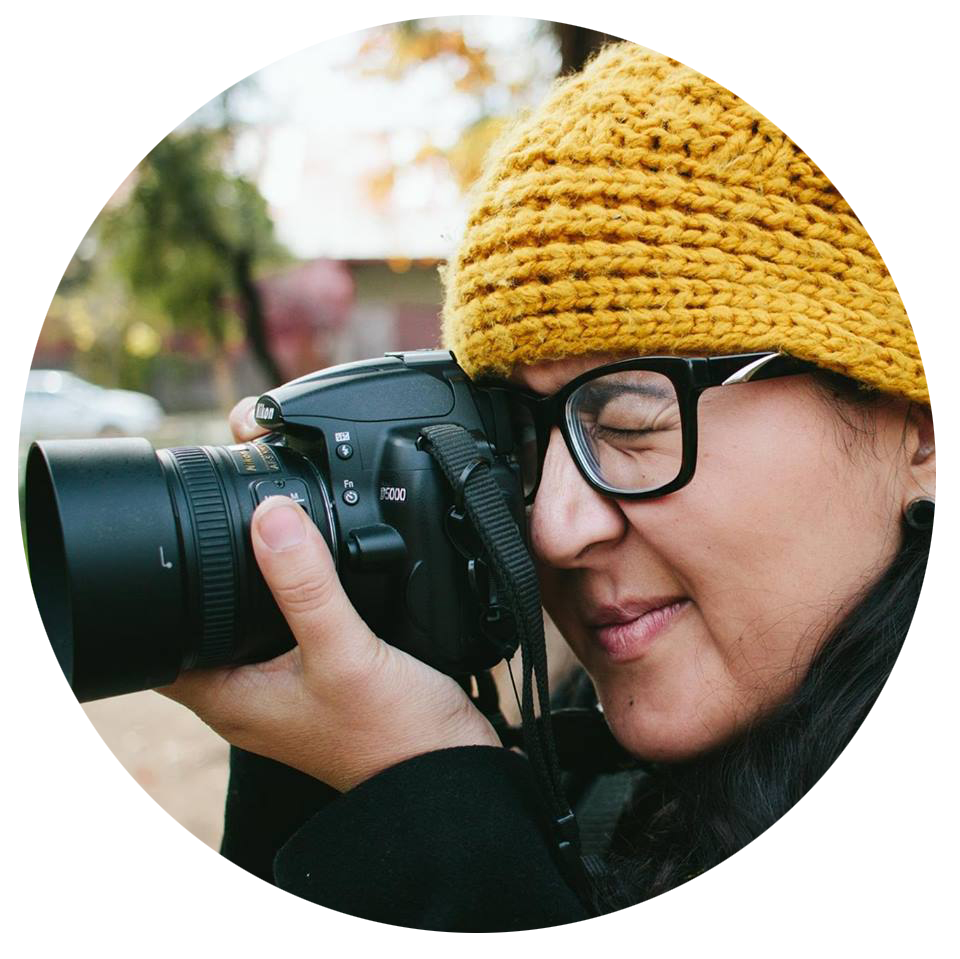
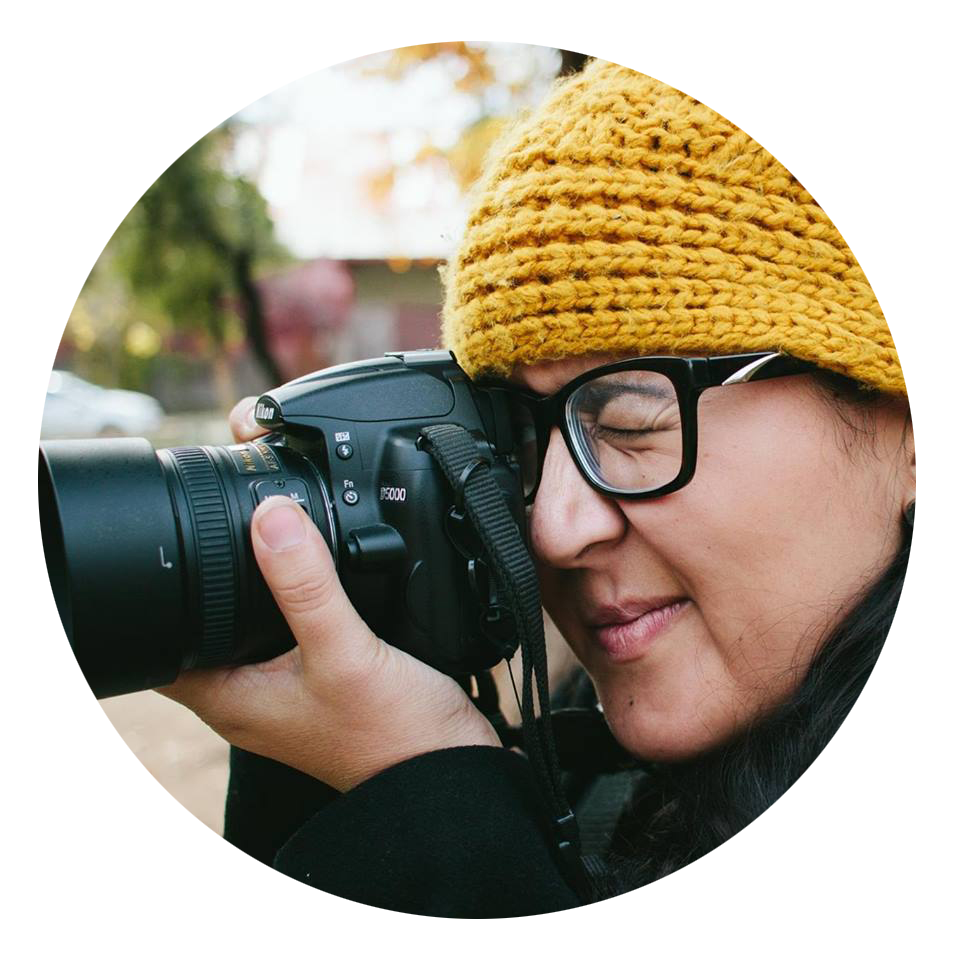
cambios en gh-pages

Changed region(s): [[0.1875, 0.0, 1.0, 0.9979], [0.0, 0.0605, 0.2812, 0.8467], [0.375, 0.0, 0.5, 0.0605]]

diff --git a/index.html b/index.html
@@ -15,7 +15,9 @@
 
 
     <center><img src="img/cabecera.jpg"></center>
-	<center><img src="img/blanca.jpg" width="300" height="300"></center>
+    <div class="circular">
+	<center><img src="img/blanca.png" onmouseover="this.src='img/squad.png';"  onmouseout="this.src='img/blanca.png';" width="300" height="300"></center>
+	</div>
 
 
 
@@ -45,33 +47,34 @@
 			<tr></tr>
 	</div>
 
-	<div>
+	<div class="circular">
 
 	<center><table>
 	    <td>
 	  <a href="http://1vaciolleno.blogspot.cl/">
-	    <img src="img/joseb&w.jpg" width="250" height="250">
+	    <img src="img/josebyw.jpg" onmouseover="this.src='img/jose2.jpg';" onmouseout="this.src='img/josebyw.jpg';" width="250" height="250">
 	</a>
 	<center><h3>J o s e f i n a L ó p e z</h3></center>
         </td>
 
 	    <td>
 	<a href="https://www.facebook.com/SUSAN.TG.FACE?fref=grp_mmbr_list">
-	    <img src="img/susa.jpg" width="250" height="250">
+	    <img src="img/susa.jpg" onmouseover="this.src='img/susan2.jpg';" onmouseout="this.src='img/susa.jpg';" width="250" height="250">
 	</a> 
 	<center><h3>S u s a n a T r a l m a</h3></center>
 	    </td>
 
         <td>
     <a href="https://www.facebook.com/photo.php?fbid=10209672961956119&set=a.1554216570631.2081037.1091676568&type=3&theater">
-	    <img src="img/paulina.jpg" width="250" height="250" > 
+	     <img src="img/paulina.jpg" onmouseover="this.src='img/paulina2.jpg';" onmouseout="this.src='img/paulina.jpg';" width="250" height="250">
+
 	</a>  
 	<center><h3>P a u l i n a V a l e n z u e l a</h3></center>
 	    </td>
 
 	    <td>
 	<a href="https://www.flickr.com/photos/nicolelirafotos">
-	    <img src="img/nicolelira.jpg" width="250" height="250"> 
+	    <img src="img/nicole.jpg" onmouseover="this.src='img/nico2.jpg';" onmouseout="this.src='img/nicole.jpg';" width="250" height="250"> 
 	</a>
 	<center><h3>N i c o l e L i r a</h3></center>
 	    </td>
@@ -81,28 +84,31 @@
 
 	    <td>
 	<a href="https://www.facebook.com/photo.php?fbid=10209882249074053&set=a.1586771270365.78690.1268286123&type=3&theater">
-	    <img src="img/daya.jpg" width="250" height="250"> 
+	    <img src="img/daya.jpg" onmouseover="this.src='img/daya2.jpg';" onmouseout="this.src='img/daya.jpg';" width="250" height="250">
+	</a>
 	</a>   
 	<center><h3>D a y a n a A l v a r a d o</h3></center>
 	    </td>
 
 	    <td>
 	<a href="https://twitter.com/paulincka">
-	    <img src="img/paula.jpg" <img width="250" height="250" >
+	    <img src="img/paula.jpg" onmouseover="this.src='img/paula2.jpg';" onmouseout="this.src='img/paula.jpg';" width="250" height="250">
 	</a>
-	<center><h3>P a u l a S e p u l v e d a</h3></center>
+	</a>
+	<center><h3>P a u l a  S e p ú l v e d a</h3></center>
 
 	</td>
 
 	    <td>
-	<a href="https://www.facebook.com/photo.php?fbid=1222155964481865&set=a.148063028557836.23684.100000624186007&type=3&theater">   <img src="img/evelin.jpg" width="250" height="250"> 
+	<a href="https://www.facebook.com/photo.php?fbid=1222155964481865&set=a.148063028557836.23684.100000624186007&type=3&theater">   <img src="img/evelin.jpg" onmouseover="this.src='img/evelin2.jpg';" onmouseout="this.src='img/evelin.jpg';" width="250" height="250">
+	</a>	
 	</a>	
 	<center><h3>E v e l i n R i q u e l m e</h3></center>   
        </td>
 
 	    <td>
 	<a href="https://www.facebook.com/urribarriboscan">
-        <img src="img/kelly.jpg" width="250" height="250">
+        <img src="img/kelly.jpg" onmouseover="this.src='img/kelly2.jpg';" onmouseout="this.src='img/kelly.jpg';"width="250" height="250">
     </a>
     <center><h3>K e l l y U r r i b a r r i</h3></center>
 	    </td>
@@ -117,9 +123,9 @@
 
 
 	<center> <h1>  &uArr; A cambiar el mundo &uArr; </h1> </center>
-
+	<div class="circular">
 	<center> <img src="img/freak.jpg" width="1019"></center>
-
+	</div>
 	<center><img src="img/cabecera.jpg"></center>
 	
 

diff --git a/css/stylesheet.css b/css/stylesheet.css
@@ -48,6 +48,10 @@ div 	{
 
 th {display: inline-block;}
 
+.circular img {
+	border-radius: 50%;
+}
+
 /* ignorenlo
 
 blockquote {
